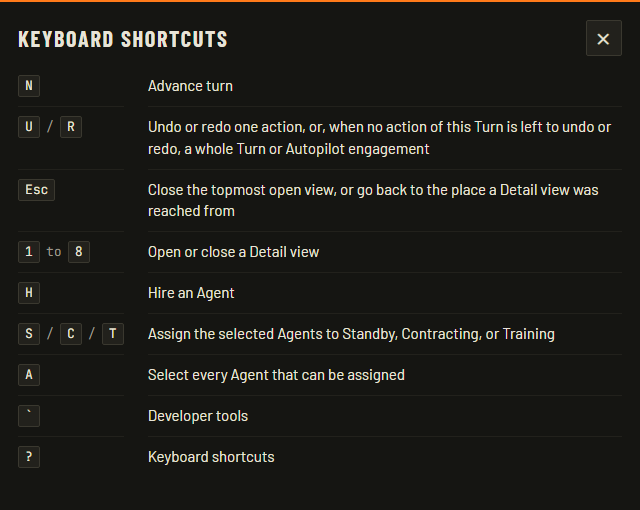
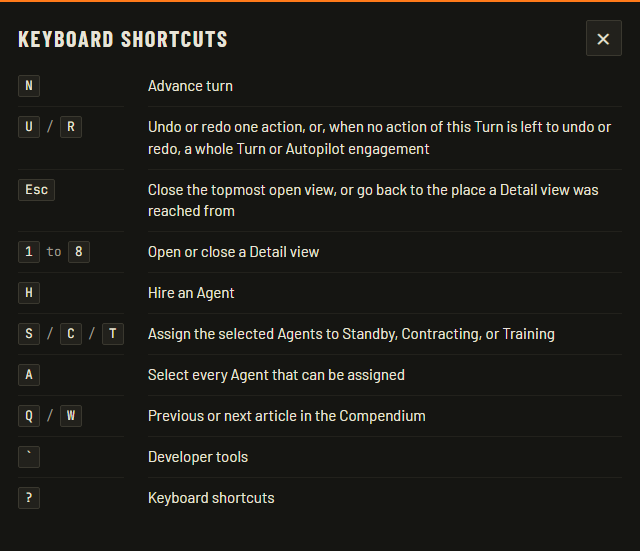
Press the Compendium's Previous and Next article buttons with the Q and W keys

diff --git a/docs/specs/design/ui/screens/compendium-view.md b/docs/specs/design/ui/screens/compendium-view.md
@@ -59,7 +59,7 @@ The Article history remembers the articles shown, so that the Player can go back
 4. **Next article:** the article after the current one becomes current and is shown.
 5. **No longer Player-visible:** an article that is no longer Player-visible, e.g. after an undo, is removed from the Article history. When it was the current one, the article before it becomes current, or else the article after it, or else the first article of the Guide category is shown as in Open.
 
-The two buttons are neutral icon buttons, a left arrow with the accessible name "Previous article" and a right arrow with the accessible name "Next article". Each is disabled while the Article history has no article in its direction. The Article history is part of the place of the Compendium View under [View trail](campaign-screen.md#view-trail), so going back to the Compendium View shows the article and the Article history the Player left, and closing the Compendium View discards it.
+The two buttons are neutral icon buttons, a left arrow with the accessible name "Previous article" and a right arrow with the accessible name "Next article". Each is disabled while the Article history has no article in its direction. While the Compendium View is open, the Q key presses the Previous article button and the W key presses the Next article button, so that the Player steps through the Article history with the hand that stays on the keyboard; while the search field has the keyboard focus, the Q and W keys type into it instead. The Article history is part of the place of the Compendium View under [View trail](campaign-screen.md#view-trail), so going back to the Compendium View shows the article and the Article history the Player left, and closing the Compendium View discards it.
 
 # Subject data sheets
 

diff --git a/docs/specs/design/ui/screens/campaign-screen.md b/docs/specs/design/ui/screens/campaign-screen.md
@@ -143,5 +143,5 @@ The dialog takes the full width a dialog may have, so that most descriptions fit
 The [Artboards](../visual-design.md#glossary) show the Situation panel and the Agents Detail view as sample content of their regions; each is detailed by its own specification and Artboard. The Settings panel Artboard shows the dialog that the Settings button opens, under [Settings panel](../gui.md#settings-panel) in the Graphical User Interface. The Side panel footer Artboard shows the footer with the Autopilot controls expanded and no Autopilot engagement active, under [Autopilot controls](#autopilot-controls). The Keyboard shortcuts Artboard shows the dialog under [Keyboard shortcuts](#keyboard-shortcuts). The following appear only on the Artboards and must not be implemented, under [Reading Artboards](../visual-design.md#reading-artboards) in Visual Design:
 
 - The sample values, e.g. Turn 16, Money 625, Turns since last enemy activity 2, the [Agent](../../mechanics/domain-model.md#agency-and-agents) IDs, the Track title GEO-4, the Music volume 50, the Autosave limit 5, the Autopilot AI name, and the number of Turns 10.
-- The rows of the Keyboard shortcuts Artboard other than those of the N, U, R, and Escape keys, which stand for the keyboard shortcuts an Implementation adds, and the wording of every description.
+- The rows of the Keyboard shortcuts Artboard other than those of the N, U, R, Escape, Q, and W keys, which stand for the keyboard shortcuts an Implementation adds, and the wording of every description.
 - The drawing of the globe, which stands in for the real one.
